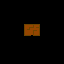
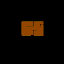
Progress on Interiors
They look nicer now

Changed region(s): [[0.3125, 0.3125, 0.6875, 0.5625], [0.5, 0.5312, 0.5312, 0.5625], [0.5, 0.4688, 0.5312, 0.5]]

diff --git a/src/ca/javajesus/level/tile/Tile.java b/src/ca/javajesus/level/tile/Tile.java
@@ -40,8 +40,6 @@ public abstract class Tile {
 			Colors.get(-1, Colors.fromHex("#DBEDD2"), 115, -1), 0xFF64FFFF, 1000);
 	public static final Tile ROAD3 = new BaseTile(9, 2, 2, Colors.get(-1, 000,
 			Colors.fromHex("#BFAD47"), -1), 0xFFFFE400);
-	public static final Tile WOOD_WALL = new BasicSolidTile(10, 2, 0, Colors.get(-1,
-			Colors.fromHex("#693609"), 000, -1), 0xFF6d4300);
 	public static final Tile MUD = new BaseTile(11, 0, 2, Colors.get(-1, Colors.fromHex("#4a2d00"),
 			-1, -1), 0xFF372201);
 	public static final Tile FARMPLOT1 = new BaseTile(12, 2, 1, Colors.get(-1, Colors.fromHex("#0c6600"),
@@ -63,7 +61,7 @@ public abstract class Tile {
 	public static final Tile CAVEFLOOR = new BaseTile(20, 0, 2, Colors.get(-1, Colors.fromHex("#AEAEAD"),-1, -1),
 			0xFFc3beb7);
 	public static final Tile WOODFLOOR = new BaseTile(21, 6, 0, Colors.get(-1,
-			Colors.fromHex("#6d4300"), 000, -1), 0xFF944500);
+			Colors.fromHex("#6d4300"), Colors.fromHex("#3e1900"), -1), 0xFF944500);
 	public static final Tile METALWALL = new BasicSolidTile(22, 5, 0, Colors.get(-1, Colors.fromHex("#a6a6a6"),
 			Colors.fromHex("#939393"), Colors.fromHex("#4b3618")), 0xFFb6b6b6);
 	public static final Tile RIGHTCARPET = new BaseTile(23, 7, 1, Colors.get(-1,
@@ -74,6 +72,23 @@ public abstract class Tile {
 			Colors.fromHex("#a40101"), Colors.fromHex("#ebcb00"), -1), 0xFFff00ff);
 	public static final Tile BOTTOMCARPET = new BaseTile(27, 8, 1, Colors.get(-1,
 			Colors.fromHex("#a40101"), Colors.fromHex("#ebcb00"), -1), 0xFF6600a7);
+	public static final Tile WOOD_WALL_HORIZONTAL_UP = new BasicSolidTile(10, 7, 0, Colors.get(-1,
+			Colors.fromHex("#693609"), Colors.fromHex("#7c3f0f"), Colors.fromHex("#48260b")), 0xFF6d4300);
+	public static final Tile WOOD_WALL_HORIZONTAL_DOWN = new BasicSolidTile(28, 8, 0, Colors.get(-1,
+			Colors.fromHex("#693609"), Colors.fromHex("#7c3f0f"), Colors.fromHex("#48260b")), 0xFF835100);
+	public static final Tile WOOD_WALL_VERTICAL_LEFT = new BasicSolidTile(29, 9, 0, Colors.get(-1,
+			Colors.fromHex("#693609"), Colors.fromHex("#7c3f0f"), Colors.fromHex("#48260b")), 0xFF5a3801);
+	public static final Tile WOOD_WALL_VERTICAL_RIGHT = new BasicSolidTile(30, 10, 0, Colors.get(-1,
+			Colors.fromHex("#693609"), Colors.fromHex("#7c3f0f"), Colors.fromHex("#48260b")), 0xFF472c00);
+	public static final Tile WOOD_WALL_CORNER_RIGHT_UP = new BasicSolidTile(31, 11, 0, Colors.get(-1,
+			Colors.fromHex("#693609"), Colors.fromHex("#7c3f0f"), Colors.fromHex("#48260b")), 0xFF520101);
+	public static final Tile WOOD_WALL_CORNER_LEFT_UP = new BasicSolidTile(32, 12, 0, Colors.get(-1,
+			Colors.fromHex("#693609"), Colors.fromHex("#7c3f0f"), Colors.fromHex("#48260b")), 0xFF420101);
+	public static final Tile WOOD_WALL_CORNER_RIGHT_DOWN = new BasicSolidTile(33, 14, 0, Colors.get(-1,
+			Colors.fromHex("#693609"), Colors.fromHex("#7c3f0f"), Colors.fromHex("#48260b")), 0xFF7a0000);
+	public static final Tile WOOD_WALL_CORNER_LEFT_DOWN = new BasicSolidTile(34, 13, 0, Colors.get(-1,
+			Colors.fromHex("#693609"), Colors.fromHex("#7c3f0f"), Colors.fromHex("#48260b")), 0xFF310000);
+
 
 
 	protected byte id;
